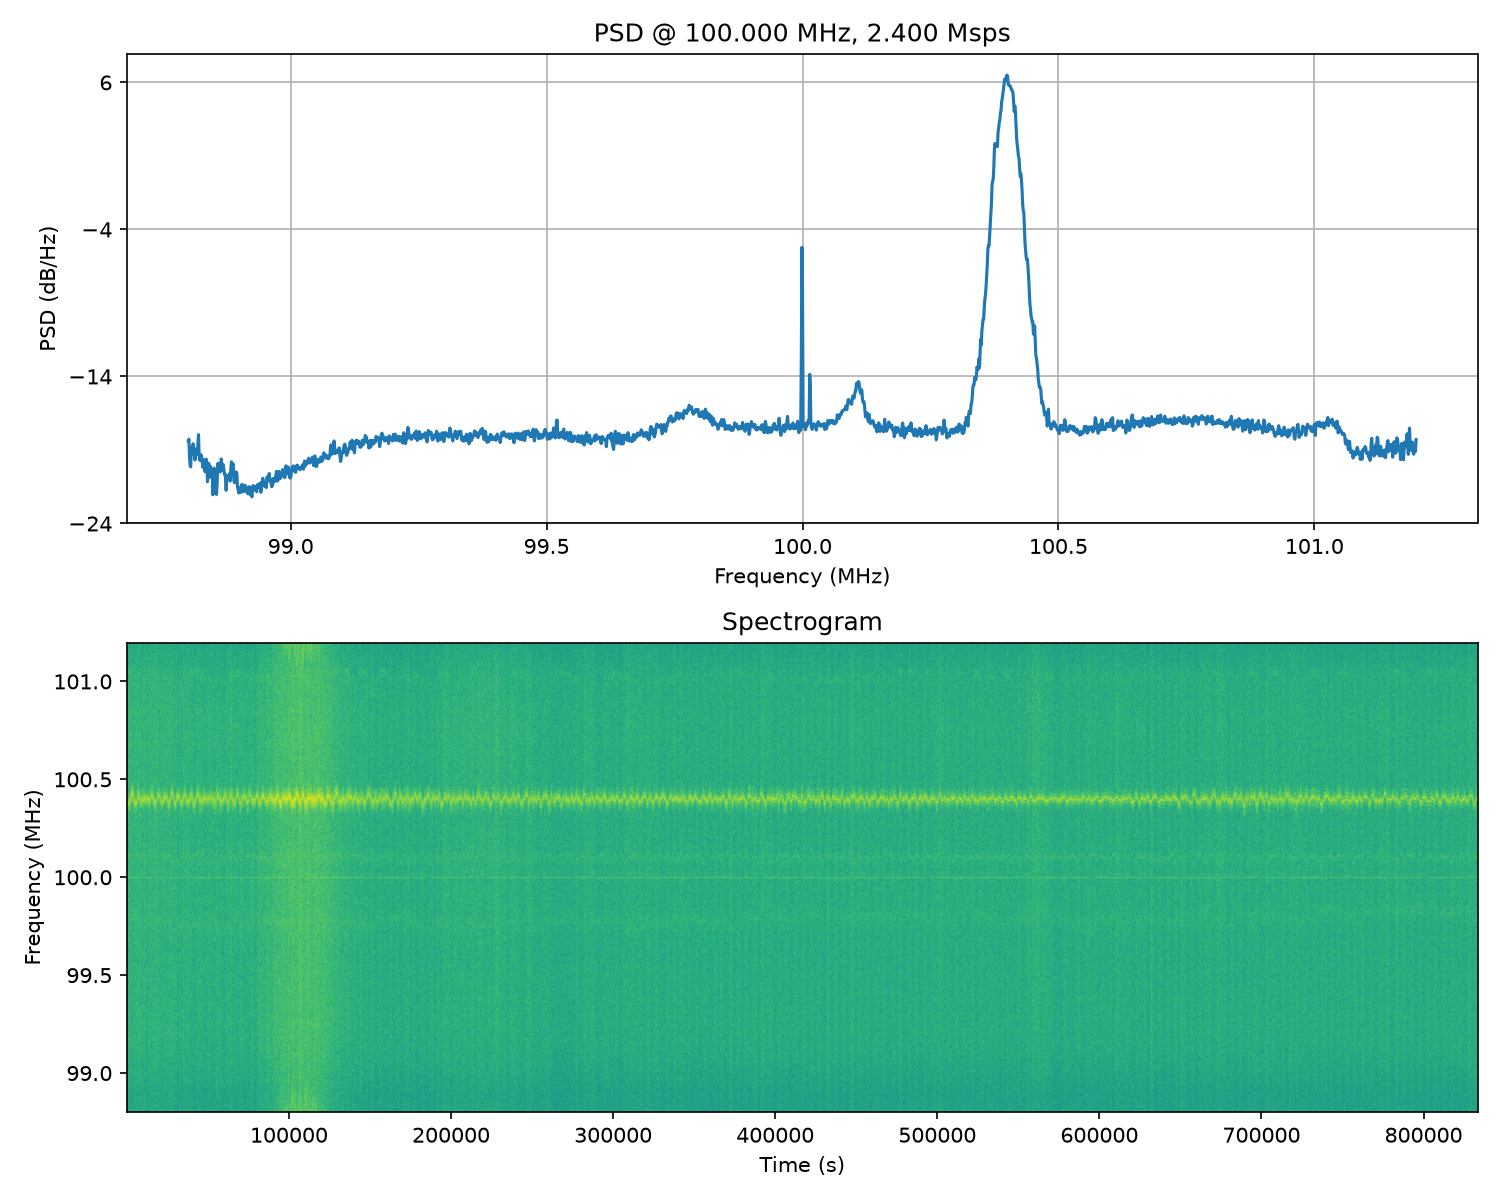
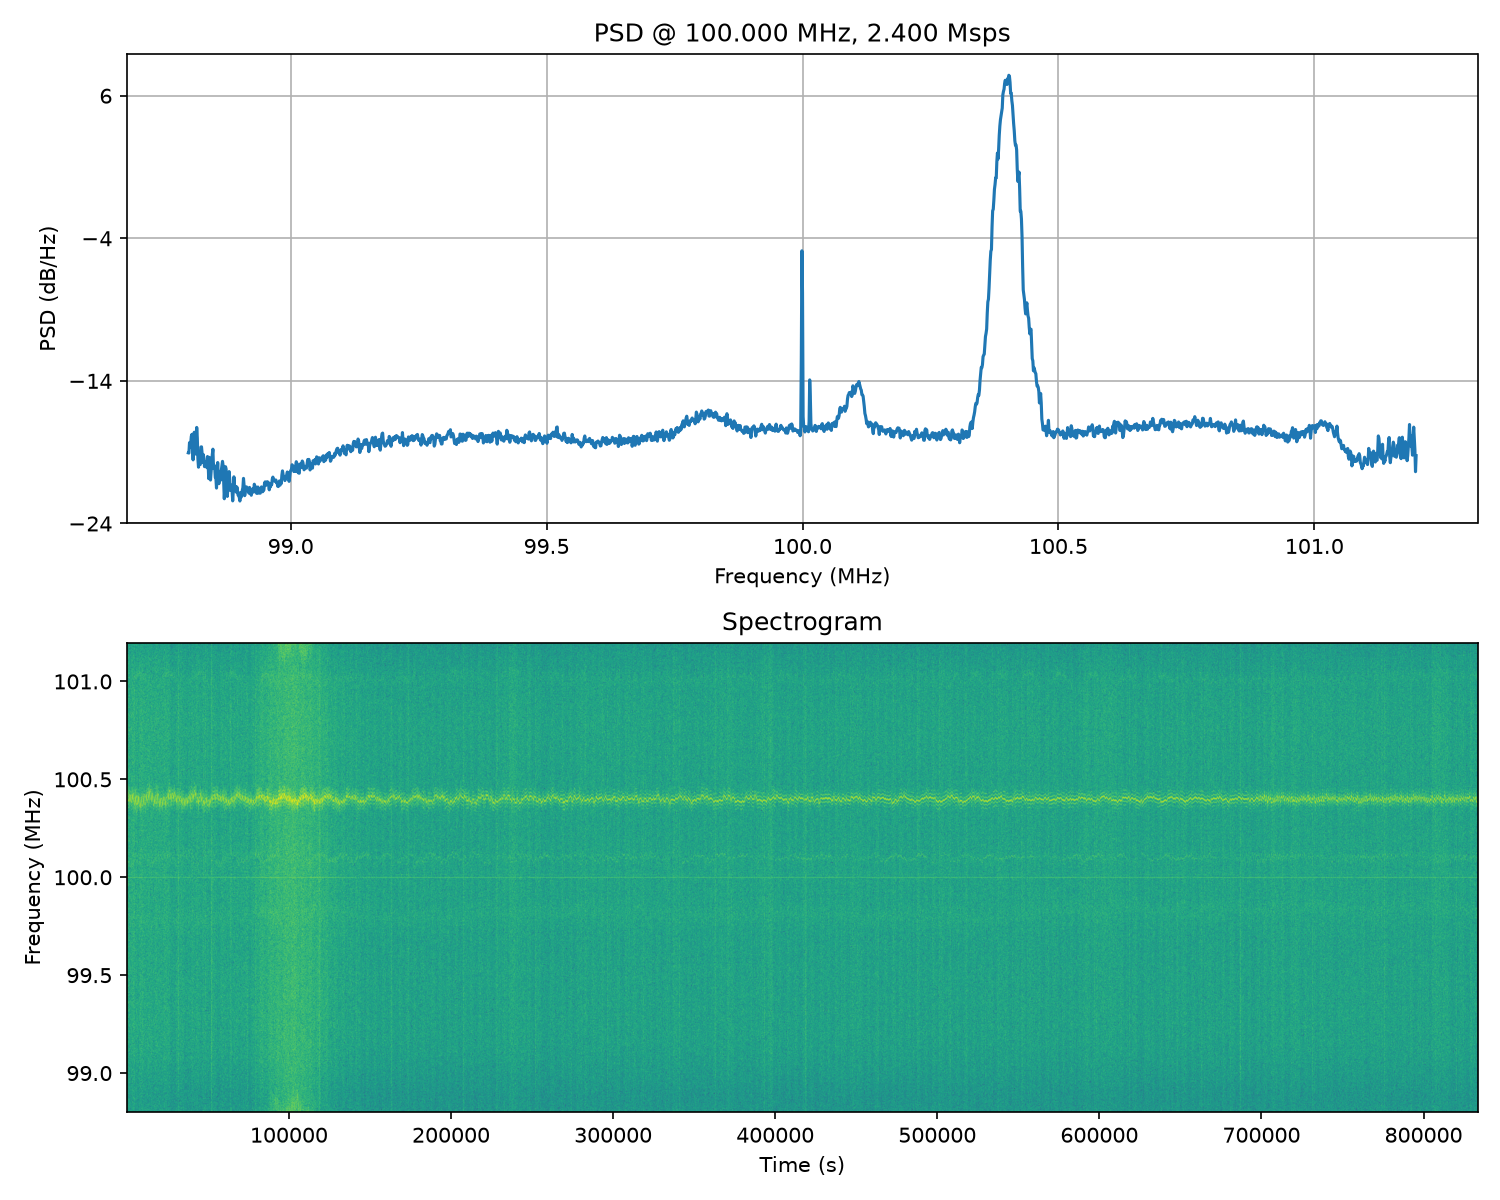
moved python source into dir

diff --git a/README.md b/README.md
@@ -1,0 +1,7 @@
+
+This receives IQ data streamed from an RT-SDR dongle over TCP (using rtl-tcp) and plots a PSD and Spectrograph. You should run this from the sample PC as the USB dongle.
+
+ - `Fc=100MHz` 
+ - `Fs=2.4GHz`
+
+![](psd_capture.png)